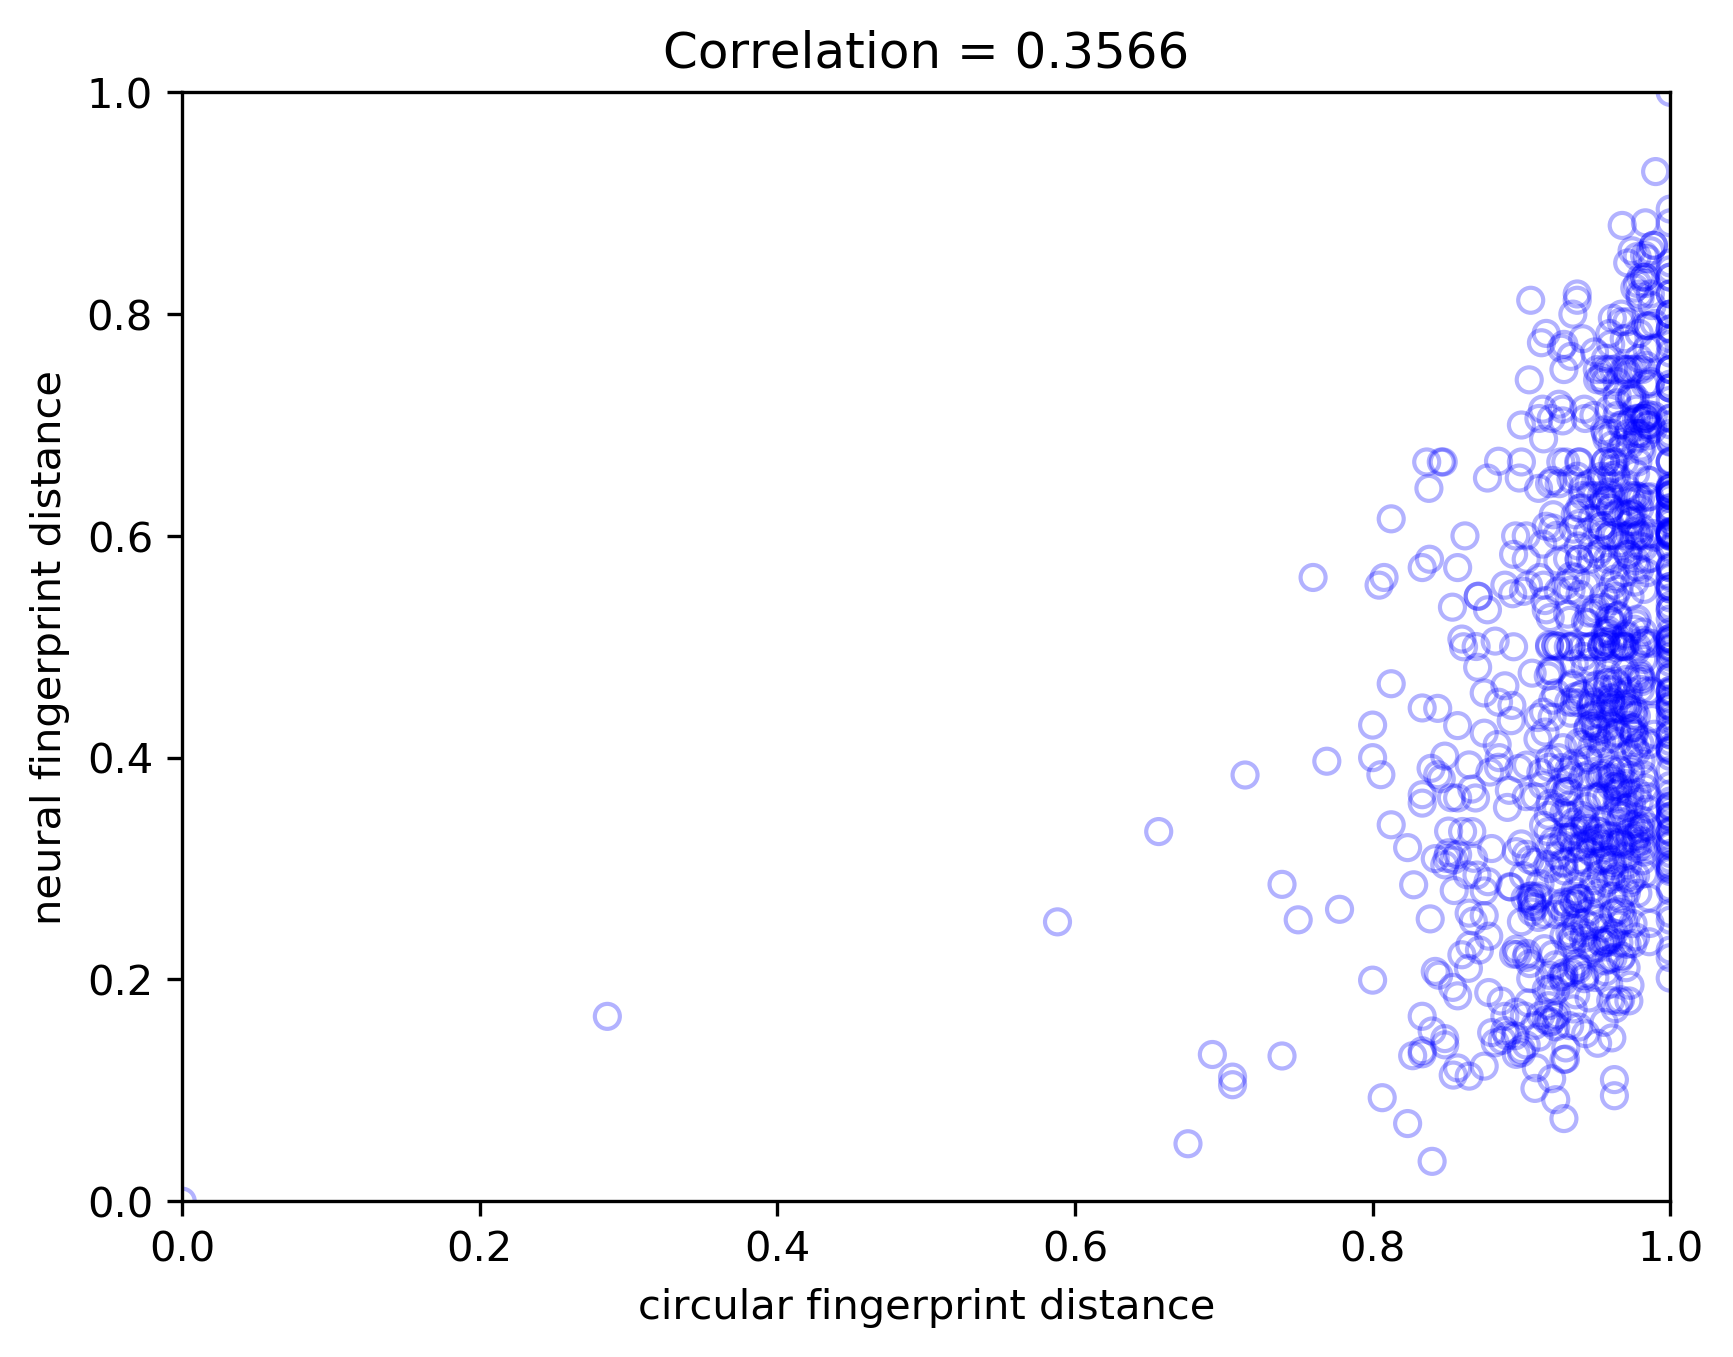
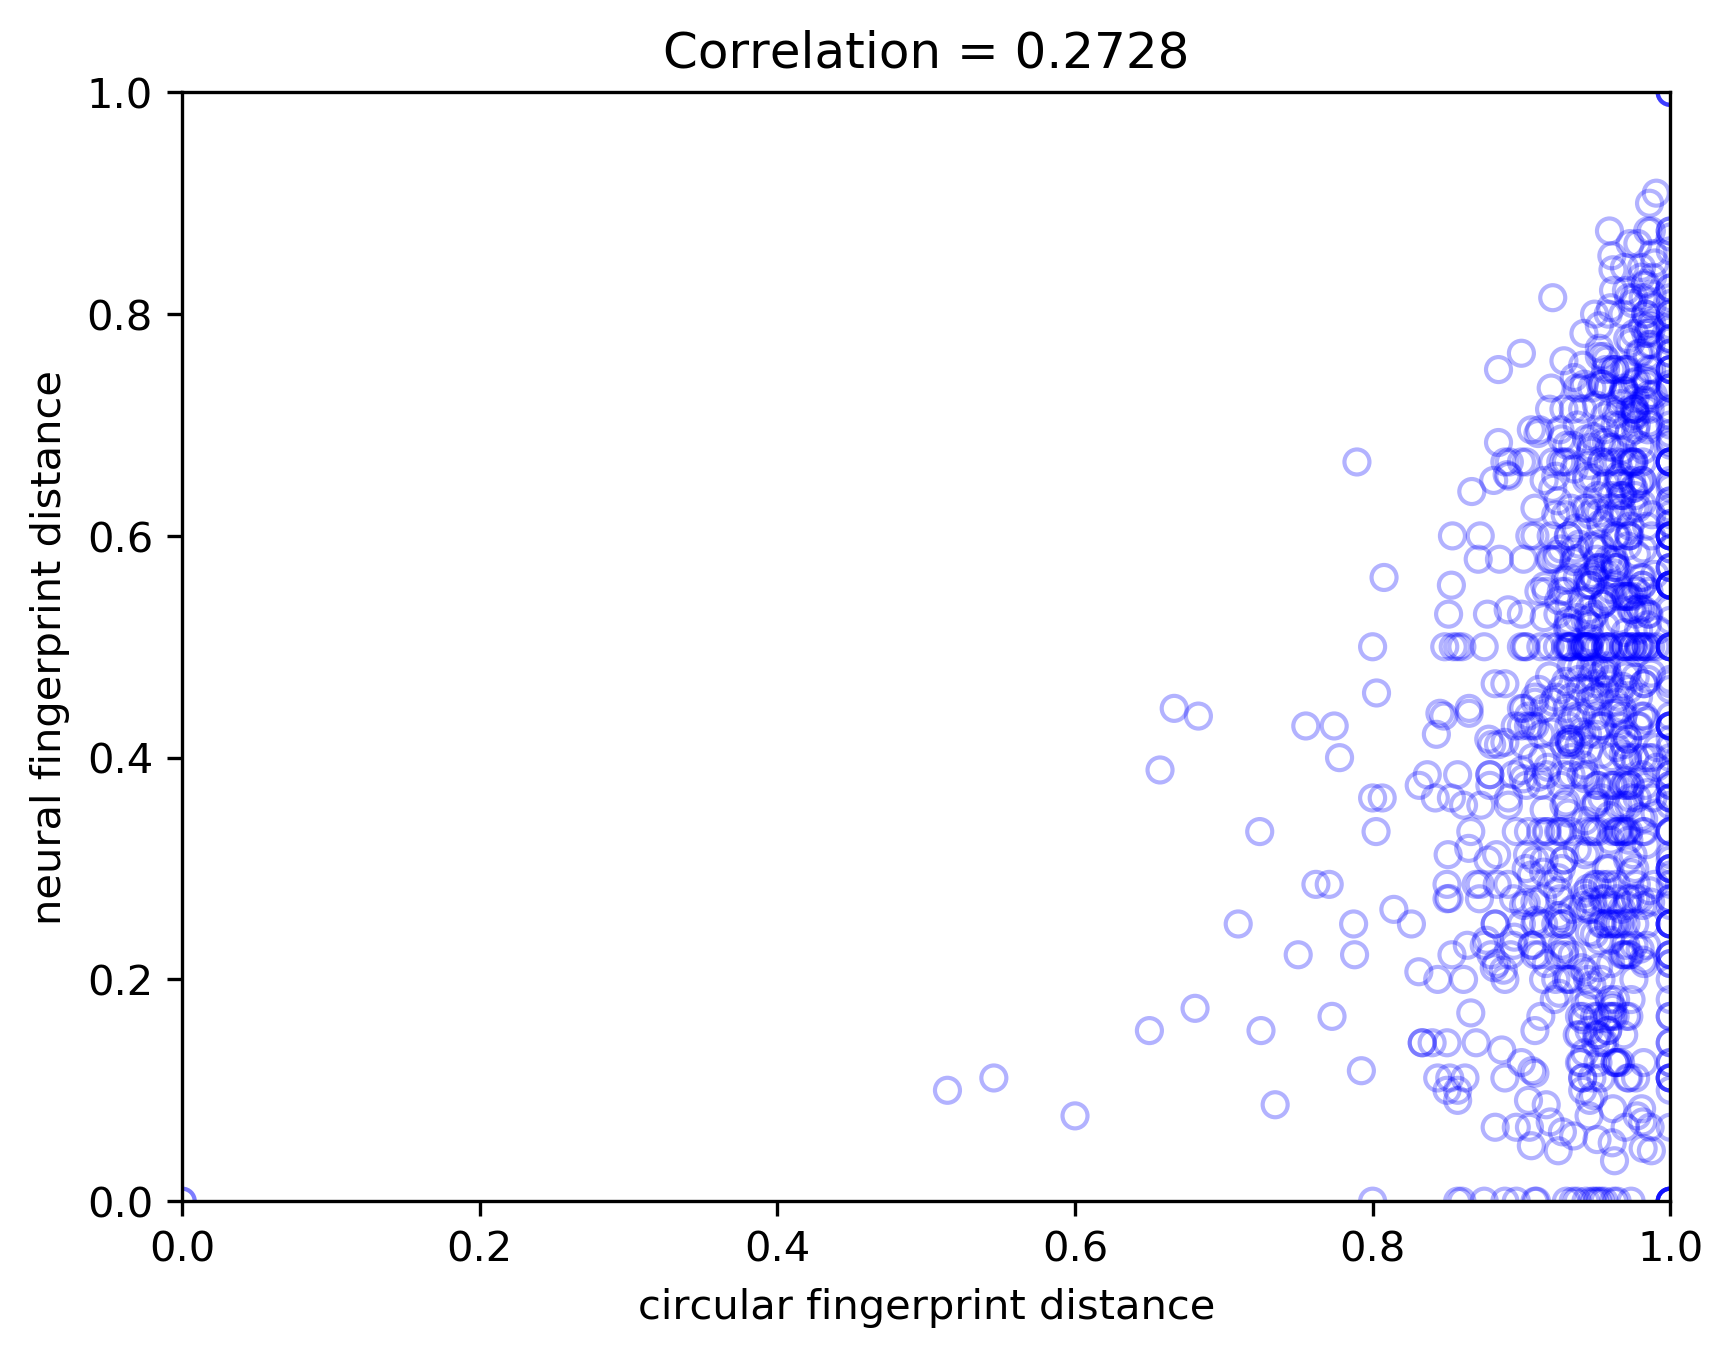
grid search activation functions

diff --git a/reproduce_distance_measure.py b/reproduce_distance_measure.py
@@ -2,8 +2,10 @@ from torch.utils.data import DataLoader, Subset
 from pathlib import Path
 import torch
 import torch.nn as nn
+import itertools as its
 import pandas as pd
 import numpy as np
+import json
 from rdkit import Chem, DataStructs
 from rdkit.Chem import AllChem
 import matplotlib.pyplot as plt
@@ -41,10 +43,17 @@ def normalize_array(A):
         return X * std + mean
     return A_normed, restore_function
 
-def plot_scatter(net, data, smiles, FP_LEN, filename,\
-                 sample_sz = 1000, SEED=None):
-    N = len(data)
-    sample_sz = sample_sz
+def change_net_to_weights(net, lo_bnd, hi_bnd):
+    for n,m in net.named_children():
+        if isinstance(m, torch.nn.Linear):
+            nn.init.uniform_(m.weight, lo_bnd, hi_bnd)
+            if m.bias is not None:
+                nn.init.uniform_(m.bias, lo_bnd, hi_bnd)
+        change_net_to_weights(m, lo_bnd, hi_bnd)
+
+def calc_distance(net, data, smiles, FP_LEN,\
+                    sample_sz=1000, SEED=None):
+    N, sample_sz = len(data), sample_sz
     if SEED: np.random.seed(SEED)
     res = [[],[]]
     for _ in range(sample_sz):
@@ -57,6 +66,15 @@ def plot_scatter(net, data, smiles, FP_LEN, filename,\
         res[1].append(dst1)
 
     res = np.asarray(res)
+    return res
+
+def calc_corr(res):
+    return (np.corrcoef(res[0], res[1])[0,1])
+
+def plot_scatter(net, data, smiles, FP_LEN, filename,\
+                 sample_sz = 1000, SEED=None):
+    res = calc_distance(net, data, smiles, FP_LEN, \
+                          sample_sz, SEED)
     plt.scatter(res[0], res[1], marker='o', facecolors='none', edgecolors='b', alpha=0.3)
     plt.xlabel("circular fingerprint distance")
     plt.ylabel("neural fingerprint distance")
@@ -74,13 +92,38 @@ if __name__ == '__main__':
     data = MolData(df['smiles'], target)
 
     # Plot with a random weight and 2048 length as in Figure3Left
-    SEED, FP_LEN = 7, 1<<11 
-    plot_scatter(QSAR(hid_dim=FP_LEN, n_class=1, max_degree=6),
+    gcn_act = ['sigmoid', 'relu', 'tanh']
+    gop_act = ['sigmoid', 'tanh', 'softmax']
+    large_weights = [(-1e7, 1e7), (0, 1e7), (-1e3, 1e3), (-10, 10)]
+    max_degs = [1, 6]
+    res = {}
+    for a1, a2, bnds, rd in its.product(gcn_act, gop_act, large_weights,
+                                        max_degs):
+        SEED, FP_LEN = 7, 1<<11 
+        net = QSAR(hid_dim=FP_LEN, n_class=1, max_degree=rd,
+                   gcn_activation=a1,
+                   gop_activation=a2)
+        print("nbnds", bnds)
+        change_net_to_weights(net.nfp, *bnds)
+        tmp = calc_distance(net, data, df['smiles'], FP_LEN, sample_sz=500,
+                            SEED=7)
+        tmp = calc_corr(tmp)
+        res[f"gcn-{a1}_gop-{a2}_weights-{bnds}_radius-{rd}"]=tmp
+        print(f"gcn-{a1}_gop-{a2}_weights-{bnds}_radius-{rd}", tmp)
+
+
+    with open('./output.json', 'w') as fp:
+        json.dump(res, fp)
+
+
+    exit()
+    plot_scatter(net,
                  data,
                  df['smiles'],
                  FP_LEN,
                  "./figs/scatter_nfp_vs_cfp_2048_random_weight.png")
 
+    exit()
     # Plot with a trained model
     OUTPUT = './output/best_delaney.pkl'
     net = torch.load(OUTPUT+'.pkg')

diff --git a/NeuralGraph/layer.py b/NeuralGraph/layer.py
@@ -56,11 +56,12 @@ class GraphConv(nn.Module):
     # References
         - [Convolutional Networks on Graphs for Learning Molecular Fingerprints](https://arxiv.org/abs/1509.09292)
     '''
-    def __init__(self, input_dim, conv_width, max_degree=6):
+    def __init__(self, input_dim, conv_width, max_degree=6, activation='relu'):
         super(GraphConv, self).__init__()
         self.conv_width = conv_width
         self.max_degree = max_degree
         self.inner_3D_layers = nn.ModuleList([nn.Linear(input_dim, self.conv_width) for _ in range(max_degree)])
+        self.activation = activation
         # for degree in range(max_degree):
 
     def forward(self, *input, mask=None):
@@ -85,7 +86,15 @@ class GraphConv(nn.Module):
         new_features = None
         for degree in range(self.max_degree):
             atom_masks_this_degree = (atom_degrees == degree).float()
-            new_unmasked_features = T.relu(self.inner_3D_layers[degree](summed_features))
+            ## Changed
+            if self.activation == 'relu':
+                new_unmasked_features = T.relu(self.inner_3D_layers[degree](summed_features))
+            elif self.activation == 'tanh':
+                new_unmasked_features = T.tanh(self.inner_3D_layers[degree](summed_features))
+            elif self.activation == 'sigmoid':
+                new_unmasked_features = T.sigmoid(self.inner_3D_layers[degree](summed_features))
+            else:
+                raise NotImplementedError
             # Do explicit masking because TimeDistributed does not support masking
             new_masked_features = new_unmasked_features * atom_masks_this_degree
 
@@ -149,10 +158,11 @@ class GraphOutput(nn.Module):
             - [Convolutional Networks on Graphs for Learning Molecular Fingerprints](https://arxiv.org/abs/1509.09292)
     """
 
-    def __init__(self, input_dim=128, output_dim=128):
+    def __init__(self, input_dim=128, output_dim=128, activation='softmax'):
         super(GraphOutput, self).__init__()
         self.fp_len = output_dim
         self.inner_3D_layer = nn.Linear(input_dim, self.fp_len)
+        self.activation = activation
 
     def forward(self, atoms, bonds, edges):
 
@@ -170,8 +180,14 @@ class GraphOutput(nn.Module):
         summed_features = T.cat([atoms, summed_bond_features], dim=-1)
 
         #Compute fingerprint
-        #fingerprint_out_unmasked = T.tanh(self.inner_3D_layer(summed_features))
-        fingerprint_out_unmasked = T.softmax(self.inner_3D_layer(summed_features), dim=-1)
+        if self.activation == 'tanh':
+            fingerprint_out_unmasked = T.tanh(self.inner_3D_layer(summed_features))
+        elif self.activation == 'softmax':
+            fingerprint_out_unmasked = T.softmax(self.inner_3D_layer(summed_features), dim=-1)
+        elif self.activation == 'sigmoid':
+            fingerprint_out_unmasked = T.sigmoid(self.inner_3D_layer(summed_features))
+        else:
+            raise NotImplementedError
 
         # Do explicit masking because TimeDistributed does not support masking
         fingerprint_out_masked = fingerprint_out_unmasked * general_atom_mask

diff --git a/NeuralGraph/model.py b/NeuralGraph/model.py
@@ -5,14 +5,17 @@ import numpy as np
 from torch import optim
 import time
 from .util import dev
+
 class NeuralFingerPrint(nn.Module):
-    def __init__(self, hid_dim, max_degree=6):
+    def __init__(self, hid_dim, max_degree=6,\
+                 gcn_activation='relu', gop_activation='softmax'):
         super(NeuralFingerPrint, self).__init__()
         self.gcn1 = GraphConv(input_dim=43, conv_width=128,
-                              max_degree=max_degree)
+                              max_degree=max_degree, activation=gcn_activation)
         self.gcn2 = GraphConv(input_dim=134, conv_width=128,
-                              max_degree=max_degree)
-        self.gop = GraphOutput(input_dim=134, output_dim=128)
+                              max_degree=max_degree, activation=gcn_activation)
+        self.gop = GraphOutput(input_dim=134, output_dim=128,
+                               activation=gop_activation)
         self.pool = GraphPool()
     
     def forward(self, atoms, bonds, edges):
@@ -26,9 +29,11 @@ class NeuralFingerPrint(nn.Module):
         return fp
 
 class QSAR(nn.Module):
-    def __init__(self, hid_dim, n_class, max_degree=6):
+    def __init__(self, hid_dim, n_class, max_degree=6, \
+                 gcn_activation='relu', gop_activation='softmax'):
         super(QSAR, self).__init__()
-        self.nfp = NeuralFingerPrint(hid_dim, max_degree=max_degree)
+        self.nfp = NeuralFingerPrint(hid_dim, max_degree=max_degree,
+                 gcn_activation=gcn_activation, gop_activation=gop_activation)
         # self.bn = nn.BatchNorm2d(80)
         self.mlp = nn.Sequential(nn.Linear(hid_dim, hid_dim//2),
                                  nn.ReLU(),

diff --git a/README.md b/README.md
@@ -11,6 +11,81 @@ forked from: https://github.com/XuhanLiu/NGFP
 
 * **Solubility**: `reproduce_delaney.py` Averaged over 5 runs, 8:1:1 for train, validate and test.
 
+params                                                                correlation
+------------------------------------------------------------------  -------------
+gcn-sigmoid_gop-softmax_weights-(-1000.0, 1000.0)_radius-1              0.716294
+gcn-sigmoid_gop-softmax_weights-(-10000000.0, 10000000.0)_radius-1      0.679691
+gcn-sigmoid_gop-softmax_weights-(0, 10000000.0)_radius-1                0.642413
+gcn-sigmoid_gop-tanh_weights-(-10, 10)_radius-1                         0.618465
+gcn-sigmoid_gop-softmax_weights-(-10, 10)_radius-1                      0.612766
+gcn-sigmoid_gop-sigmoid_weights-(-10000000.0, 10000000.0)_radius-1      0.55004
+gcn-relu_gop-sigmoid_weights-(-10000000.0, 10000000.0)_radius-1         0.536428
+gcn-relu_gop-sigmoid_weights-(-1000.0, 1000.0)_radius-1                 0.532326
+gcn-relu_gop-sigmoid_weights-(-10, 10)_radius-1                         0.531631
+gcn-sigmoid_gop-sigmoid_weights-(-10, 10)_radius-1                      0.53001
+gcn-sigmoid_gop-sigmoid_weights-(-1000.0, 1000.0)_radius-1              0.529918
+gcn-relu_gop-tanh_weights-(-10000000.0, 10000000.0)_radius-6            0.479653
+gcn-relu_gop-sigmoid_weights-(-1000.0, 1000.0)_radius-6                 0.475187
+gcn-sigmoid_gop-softmax_weights-(-10000000.0, 10000000.0)_radius-6      0.47381
+gcn-relu_gop-sigmoid_weights-(-10000000.0, 10000000.0)_radius-6         0.458613
+gcn-sigmoid_gop-softmax_weights-(-10, 10)_radius-6                      0.457012
+gcn-relu_gop-sigmoid_weights-(-10, 10)_radius-6                         0.454613
+gcn-sigmoid_gop-sigmoid_weights-(-10, 10)_radius-6                      0.418538
+gcn-sigmoid_gop-sigmoid_weights-(-10000000.0, 10000000.0)_radius-6      0.406702
+gcn-sigmoid_gop-sigmoid_weights-(-1000.0, 1000.0)_radius-6              0.375891
+gcn-sigmoid_gop-tanh_weights-(-10000000.0, 10000000.0)_radius-6         0.372162
+gcn-sigmoid_gop-softmax_weights-(-1000.0, 1000.0)_radius-6              0.352566
+gcn-sigmoid_gop-softmax_weights-(0, 10000000.0)_radius-6                0.311116
+gcn-sigmoid_gop-sigmoid_weights-(0, 10000000.0)_radius-1                0.295567
+gcn-sigmoid_gop-sigmoid_weights-(0, 10000000.0)_radius-6                0.295567
+gcn-sigmoid_gop-tanh_weights-(0, 10000000.0)_radius-1                   0.295567
+gcn-sigmoid_gop-tanh_weights-(0, 10000000.0)_radius-6                   0.295567
+gcn-relu_gop-sigmoid_weights-(0, 10000000.0)_radius-1                   0.295567
+gcn-relu_gop-sigmoid_weights-(0, 10000000.0)_radius-6                   0.295567
+gcn-relu_gop-tanh_weights-(0, 10000000.0)_radius-1                      0.295567
+gcn-relu_gop-tanh_weights-(0, 10000000.0)_radius-6                      0.295567
+gcn-sigmoid_gop-tanh_weights-(-10, 10)_radius-6                         0.261334
+gcn-sigmoid_gop-tanh_weights-(-1000.0, 1000.0)_radius-6                 0.2468
+gcn-sigmoid_gop-tanh_weights-(-1000.0, 1000.0)_radius-1                 0.194475
+gcn-relu_gop-tanh_weights-(-10000000.0, 10000000.0)_radius-1            0.139468
+gcn-sigmoid_gop-tanh_weights-(-10000000.0, 10000000.0)_radius-1        -0.095261
+gcn-relu_gop-tanh_weights-(-10, 10)_radius-6                          nan
+gcn-relu_gop-softmax_weights-(-10, 10)_radius-1                         0.686585
+gcn-tanh_gop-softmax_weights-(-10000000.0, 10000000.0)_radius-1         0.665152
+gcn-tanh_gop-softmax_weights-(-10, 10)_radius-1                         0.665107
+gcn-relu_gop-softmax_weights-(0, 10000000.0)_radius-1                   0.657383
+gcn-tanh_gop-softmax_weights-(-1000.0, 1000.0)_radius-1                 0.629601
+gcn-tanh_gop-softmax_weights-(0, 10000000.0)_radius-1                   0.604808
+gcn-relu_gop-softmax_weights-(-1000.0, 1000.0)_radius-6                 0.581197
+gcn-relu_gop-softmax_weights-(-1000.0, 1000.0)_radius-1                 0.572924
+gcn-relu_gop-tanh_weights-(-1000.0, 1000.0)_radius-6                    0.565224
+gcn-relu_gop-softmax_weights-(-10000000.0, 10000000.0)_radius-1         0.562611
+gcn-relu_gop-tanh_weights-(-1000.0, 1000.0)_radius-1                    0.560201
+gcn-relu_gop-softmax_weights-(-10, 10)_radius-6                         0.550639
+gcn-tanh_gop-softmax_weights-(0, 10000000.0)_radius-6                   0.539548
+gcn-tanh_gop-sigmoid_weights-(-10, 10)_radius-1                         0.52877
+gcn-tanh_gop-sigmoid_weights-(-1000.0, 1000.0)_radius-1                 0.525169
+gcn-tanh_gop-sigmoid_weights-(-10000000.0, 10000000.0)_radius-1         0.52363
+gcn-tanh_gop-sigmoid_weights-(-10, 10)_radius-6                         0.438762
+gcn-tanh_gop-sigmoid_weights-(-1000.0, 1000.0)_radius-6                 0.43075
+gcn-tanh_gop-softmax_weights-(-10000000.0, 10000000.0)_radius-6         0.430058
+gcn-tanh_gop-softmax_weights-(-10, 10)_radius-6                         0.424098
+gcn-tanh_gop-sigmoid_weights-(-10000000.0, 10000000.0)_radius-6         0.421994
+gcn-relu_gop-softmax_weights-(-10000000.0, 10000000.0)_radius-6         0.363453
+gcn-tanh_gop-softmax_weights-(-1000.0, 1000.0)_radius-6                 0.345484
+gcn-tanh_gop-tanh_weights-(-1000.0, 1000.0)_radius-6                    0.340882
+gcn-tanh_gop-tanh_weights-(-1000.0, 1000.0)_radius-1                    0.320849
+gcn-relu_gop-softmax_weights-(0, 10000000.0)_radius-6                   0.295567
+gcn-tanh_gop-sigmoid_weights-(0, 10000000.0)_radius-1                   0.295567
+gcn-tanh_gop-sigmoid_weights-(0, 10000000.0)_radius-6                   0.295567
+gcn-tanh_gop-tanh_weights-(0, 10000000.0)_radius-1                      0.295567
+gcn-tanh_gop-tanh_weights-(0, 10000000.0)_radius-6                      0.295567
+gcn-tanh_gop-tanh_weights-(-10000000.0, 10000000.0)_radius-6            0.240071
+gcn-tanh_gop-tanh_weights-(-10, 10)_radius-1                            0.229624
+gcn-tanh_gop-tanh_weights-(-10000000.0, 10000000.0)_radius-1            0.209503
+gcn-relu_gop-tanh_weights-(-10, 10)_radius-1                            0.0741423
+gcn-tanh_gop-tanh_weights-(-10, 10)_radius-6                           -0.0714465
+
 # Convolutional Neural Graph Fingerprint
 PyTorch-based Neural Graph Fingerprint for Organic Molecule Representations
 
